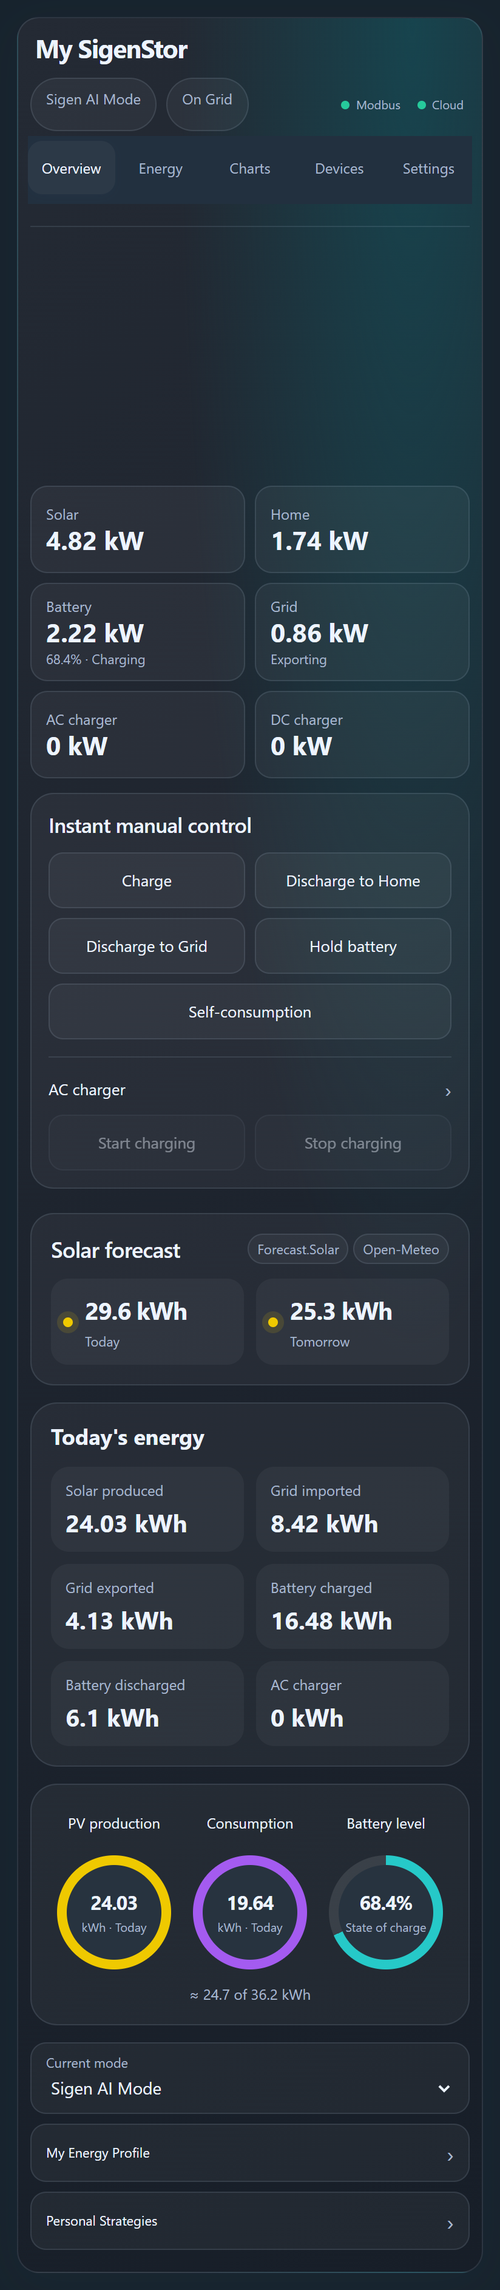
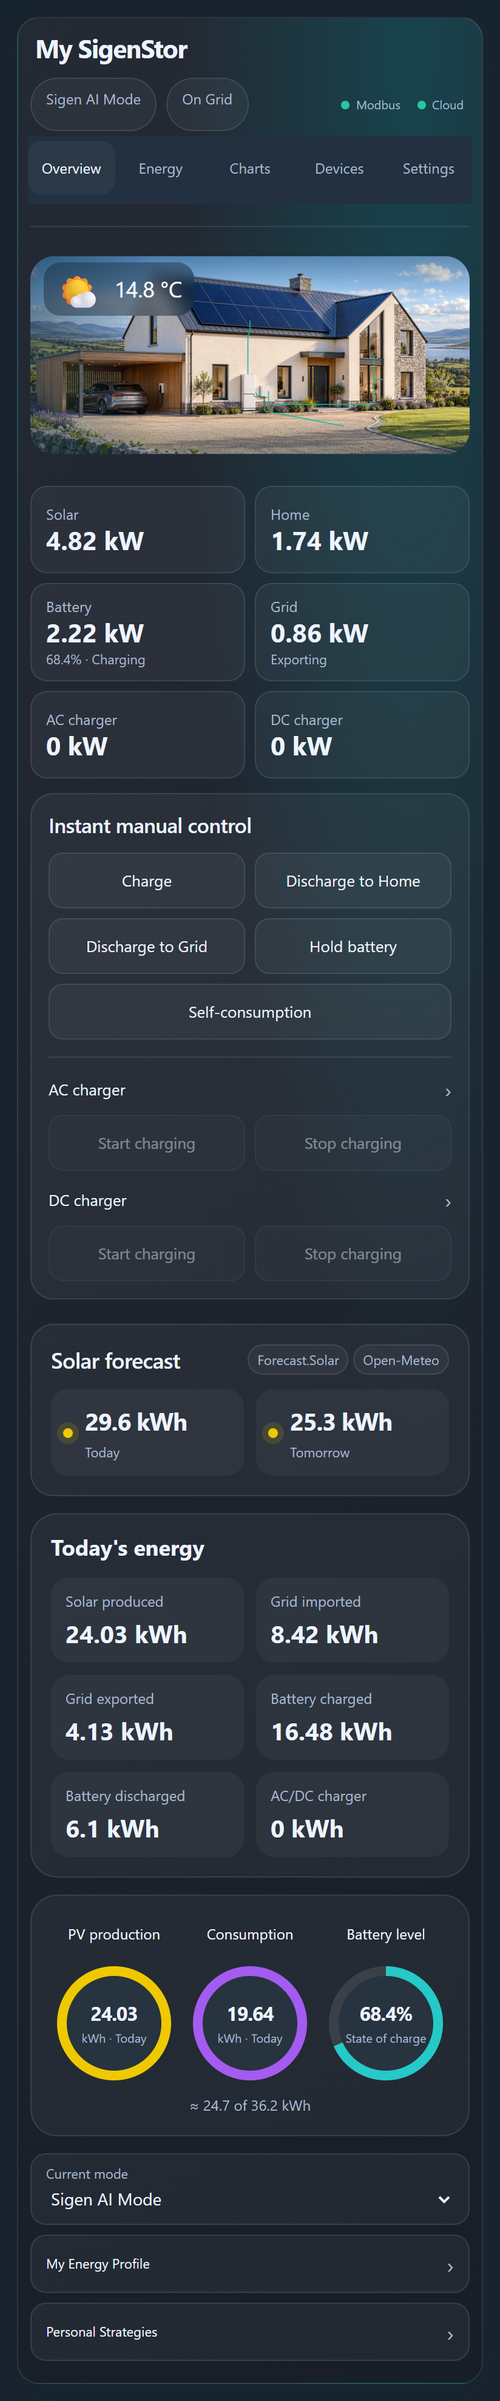
Correct charger visibility, frontend cache upgrades and landscape composition

diff --git a/custom_components/sigen_hybrid/frontend/sigen-hybrid-fit.js b/custom_components/sigen_hybrid/frontend/sigen-hybrid-fit.js
@@ -20,13 +20,16 @@ export function installHostFit(Card) {
       if (!box.width || !this.isConnected) return;
       const viewport = globalThis.visualViewport;
       const bottom = viewport ? viewport.height + viewport.offsetTop : globalThis.innerHeight;
-      const offered = parseFloat(getComputedStyle(this).getPropertyValue('--sigen-embedded-height'));
+      const offeredValue = getComputedStyle(this).getPropertyValue('--sigen-embedded-height').trim();
+      const offered = /^\d+(?:\.\d+)?px$/.test(offeredValue) ? parseFloat(offeredValue) : NaN;
       const padding = this.parentElement ? parseFloat(getComputedStyle(this.parentElement).paddingBottom) || 0 : 0;
       const available = Math.floor(Math.min(bottom - box.top - padding, offered > 0 ? offered : Infinity));
       if (available <= 0) return;
       const value = `${available}px`;
       if (this.style.getPropertyValue('--sigen-host-height') !== value) this.style.setProperty('--sigen-host-height', value);
-      this.toggleAttribute('data-sigen-fit', box.width >= 1100 && available >= 820);
+      const fit = (box.width >= 950 || box.width >= 740 && available <= box.width * .95) && available >= 600;
+      this.toggleAttribute('data-sigen-fit', fit);
+      this.toggleAttribute('data-sigen-compact-fit', fit && (box.width < 1100 || available < 820));
     };
     this._hostFitMeasure = measure;
     this._hostFitObserver = new ResizeObserver(measure);
@@ -60,10 +63,16 @@ ha-card.embedded-shell>main{min-width:0;min-height:0}
 :host([data-sigen-fit]) main:has(>.overview-preview-toolbar){grid-template-rows:auto auto minmax(0,1fr)}
 :host([data-sigen-fit]) .compact-overview.overview-aligned-controls{height:100%;min-height:0;grid-template-rows:minmax(min-content,1fr) 196px!important}
 :host([data-sigen-fit]) .compact-overview .overview-summary-stack{min-height:min-content;grid-template-rows:auto minmax(min-content,1fr) auto}
-.compact-overview .main-display-stage>.sigen-photo-scene{container-type:size;display:grid;place-items:center;isolation:isolate}
-.compact-overview .main-display-stage .sigen-photo-frame{container-type:size;flex:none;width:min(100cqw,calc(100cqh * 1490 / 673));height:min(100cqh,calc(100cqw * 673 / 1490));aspect-ratio:1490/673}
+.compact-overview .main-display-stage[data-display=photo]{container-type:size;display:grid;place-items:center}
+.compact-overview .main-display-stage>.sigen-photo-scene{container-type:size;display:block;position:relative!important;inset:auto!important;width:min(100cqw,calc(100cqh * 1490 / 673))!important;height:min(100cqh,calc(100cqw * 673 / 1490))!important;background:transparent!important;place-self:center;isolation:isolate}
+.compact-overview .main-display-stage .sigen-photo-frame{container-type:size;flex:none;width:100%;height:100%;aspect-ratio:1490/673}
+.compact-overview .sigen-photo-lower{top:auto!important;bottom:3%}
 .compact-overview .sigen-photo-plane>svg{overflow:hidden}
-.compact-overview .sigen-photo-scene::before{content:'';position:absolute;inset:-20px;z-index:-1;background-image:var(--sigen-photo-image);background-size:cover;background-position:center;filter:blur(16px);opacity:.45}
+.compact-overview .sigen-photo-label-leaders{left:50%;top:50%;width:max(100cqw,calc(100cqh * 2.490342));height:auto;aspect-ratio:1676/673;transform:translate(-50%,-50%)}
+.compact-overview .sigen-photo-chargers{position:absolute;inset:0;transform:none;display:block;max-width:none;min-height:0;pointer-events:none}
+.compact-overview .sigen-photo-chargers .sigen-photo-node{position:absolute;left:14.916468%;max-width:22%;top:40%}
+.compact-overview .sigen-photo-chargers .sigen-photo-node:has([data-detail=dc]){top:65%}
+.compact-overview .sigen-photo-scene::before{content:none!important}
 /* The artwork, cables and labels keep one shared aspect ratio. */
 @container sigen-card (min-width:651px) and (max-width:949px){
  .compact-overview .main-display-stage{aspect-ratio:2.05!important;max-height:none!important}
@@ -75,4 +84,50 @@ ha-card.embedded-shell>main{min-width:0;min-height:0}
 @container sigen-card (max-width:650px){
  .compact-overview .house-canvas{left:0!important;top:0!important;width:100%!important;height:100%!important}
 }
+/* A landscape tablet has less height after its shell header and sidebar.
+   Fit the complete overview using real touch-sized controls, not a tall
+   desktop grid with its bottom hidden outside the tablet. */
+:host([data-sigen-compact-fit]) ha-card>header{padding:8px 12px 4px!important}
+:host([data-sigen-compact-fit]) ha-card>header h1{font-size:20px!important}
+:host([data-sigen-compact-fit]) ha-card>main{padding:0 12px 6px!important}
+:host([data-sigen-compact-fit]) .primary-navigation{display:flex!important;align-items:center;flex-wrap:wrap;gap:4px 8px;margin-bottom:4px;padding-bottom:4px}
+:host([data-sigen-compact-fit]) .primary-navigation>nav{order:0;flex:1 1 auto;grid-column:auto;grid-row:auto}
+:host([data-sigen-compact-fit]) .energy-tab-strip>button{min-height:40px!important;padding:6px 10px!important;font-size:13px!important}
+:host([data-sigen-compact-fit]) .primary-navigation>.badges{order:1;grid-row:auto;gap:4px}
+:host([data-sigen-compact-fit]) .primary-navigation>.connection-strip{order:2;margin-left:auto;grid-row:auto}
+:host([data-sigen-compact-fit]) .badge,:host([data-sigen-compact-fit]) .connection-indicator{min-height:28px!important;padding:4px 7px!important;font-size:10px!important}
+:host([data-sigen-compact-fit]) .compact-overview.overview-grid.overview-aligned-controls{display:grid!important;grid-template-columns:minmax(0,1fr) minmax(280px,32%)!important;grid-template-rows:minmax(0,1fr) auto!important;gap:8px!important;height:100%!important;align-items:stretch}
+:host([data-sigen-compact-fit]) .compact-overview>.hero,:host([data-sigen-compact-fit]) .compact-overview>.overview-sidebar{display:grid!important;grid-template-rows:subgrid!important;grid-row:1/span 2!important;gap:10px!important;min-height:0}
+:host([data-sigen-compact-fit]) .compact-overview>.hero{grid-column:1!important}
+:host([data-sigen-compact-fit]) .compact-overview>.overview-sidebar{grid-column:2!important}
+:host([data-sigen-compact-fit]) .compact-overview .main-display-stage{width:100%!important;height:100%!important;max-height:none!important;aspect-ratio:auto!important;min-height:0}
+:host([data-sigen-compact-fit]) .compact-overview .overview-summary-stack{display:grid!important;grid-template-columns:1fr!important;grid-template-rows:auto minmax(0,1fr) auto!important;gap:6px!important;height:100%!important;min-height:0}
+:host([data-sigen-compact-fit]) .overview-side-module>.panel{padding:6px!important;min-height:0}
+:host([data-sigen-compact-fit]) .overview-side-module h2{font-size:15px!important;margin:0 0 5px!important;line-height:20px}
+:host([data-sigen-compact-fit]) .overview-side-module .section-title{margin-bottom:4px;gap:4px}
+:host([data-sigen-compact-fit]) .overview-forecast-panel .tile{min-height:44px!important;padding:4px 6px!important;gap:9px!important}
+:host([data-sigen-compact-fit]) .overview-forecast-panel .tile strong{font-size:18px!important;line-height:22px}
+:host([data-sigen-compact-fit]) .overview-forecast-panel .tile small{font-size:11px!important;line-height:14px}
+:host([data-sigen-compact-fit]) .forecast-source-badges .badge{font-size:9px!important;min-height:20px!important;padding:2px 4px!important}
+:host([data-sigen-compact-fit]) .overview-energy-metrics{gap:5px!important;grid-template-columns:repeat(3,minmax(0,1fr))!important;grid-template-rows:repeat(2,minmax(44px,1fr))!important}
+:host([data-sigen-compact-fit]) .overview-energy-metric{min-height:44px!important;padding:4px 6px!important}
+:host([data-sigen-compact-fit]) .overview-energy-metric small{font-size:11px!important;line-height:13px;margin-bottom:2px!important}
+:host([data-sigen-compact-fit]) .overview-energy-metric strong{font-size:17px!important;line-height:22px;white-space:nowrap}
+:host([data-sigen-compact-fit]) .overview-summary-ring{max-width:56px!important;padding:4px!important}
+:host([data-sigen-compact-fit]) .overview-circle-label{font-size:10px!important;line-height:13px;min-height:14px!important}
+:host([data-sigen-compact-fit]) .overview-circle-panel .overview-summary-ring strong{font-size:13px!important}
+:host([data-sigen-compact-fit]) .overview-ring-centre small{font-size:8px!important;margin-top:2px}
+:host([data-sigen-compact-fit]) .overview-circle-storage{font-size:10px!important;margin-top:4px!important;line-height:12px}
+:host([data-sigen-compact-fit]) .overview-primary-controls>.panel{padding:6px!important}
+:host([data-sigen-compact-fit]) .instant-manual-panel h2{font-size:15px;margin:0!important}
+:host([data-sigen-compact-fit]) .instant-manual-panel>.section-title{margin-bottom:6px!important}
+:host([data-sigen-compact-fit]) .battery-control-buttons{grid-template-columns:repeat(5,minmax(0,1fr))!important;gap:5px}
+:host([data-sigen-compact-fit]) .control-buttons button{min-height:44px!important;font-size:12px!important;line-height:15px;padding:5px!important}
+:host([data-sigen-compact-fit]) .overview-charger-controls{grid-template-columns:repeat(2,minmax(0,1fr))!important;margin-top:6px!important;padding-top:5px!important;gap:8px}
+:host([data-sigen-compact-fit]) .overview-charger-heading{font-size:12px!important;padding:0 0 4px!important;min-height:24px}
+:host([data-sigen-compact-fit]) .overview-device-links{display:grid!important;grid-template-columns:1fr!important;grid-template-rows:repeat(3,minmax(44px,1fr))!important;gap:5px!important;margin:0!important;min-height:0}
+:host([data-sigen-compact-fit]) .overview-device-links>*{grid-column:1!important;min-height:44px!important;font-size:12px!important;padding:6px 8px!important}
+:host([data-sigen-compact-fit]) .overview-mode-control select{min-height:24px!important;font-size:13px!important}
+:host([data-sigen-compact-fit]) .mobile-power-grid{display:none!important}
+:host([data-sigen-compact-fit]) .house-reading,:host([data-sigen-compact-fit]) .sigen-photo-node,:host([data-sigen-compact-fit]) .sigen-photo-leader{display:block!important}
 `;

diff --git a/custom_components/sigen_hybrid/frontend/sigen-hybrid-photo.js b/custom_components/sigen_hybrid/frontend/sigen-hybrid-photo.js
@@ -1,4 +1,4 @@
-import { renderSceneWeather, renderWeatherEffects } from './sigen-hybrid-house.js?v=0.2.3';
+import { renderSceneWeather, renderWeatherEffects } from './sigen-hybrid-house.js?v=0.2.4';
 /*
  * Copyright 2025-2026 Jean-Yves Avenard
  *
@@ -48,6 +48,8 @@ const FLOWS = Object.freeze({
   homeFlow: { path: 'M890 438 V466 Q890 474 898 474 H1178 Q1186 474 1186 466 V337', length: 462.1, gateway: 'start' },
   homeBranch: { path: 'M1186 404 H1210', length: 24, parent: 'homeFlow', fork: 395.1 },
   gridFlow: { path: 'M878 453 V486 Q878 492 886 494 L1100 535', length: 261.4, gateway: 'start' },
+  acFlow: { path: 'M878 453 V477 Q878 485 870 485 H601 Q589 485 589 473 V428', length: 371, gateway: 'start' },
+  dcFlow: { path: 'M878 453 H856 Q848 453 848 445 H820', length: 66, gateway: 'start' },
 });
 // Distances follow the remapped local paths. A shared cycle carries the pulse
 // through the inverter/gateway to HOME without traversing the open sky.
@@ -123,6 +125,8 @@ export function photoSceneModel(ctx = {}) {
       homeFlow: flow(home, homeActive), homeBranch: flow(home, homeActive),
       // This cable's path points from gateway to grid.
       gridFlow: flow(grid === null ? null : -grid, gridActive, grid !== null && grid > 0),
+      acFlow: flow(ac, hasAc && activeReading(ctx, 'ac_power', ac)),
+      dcFlow: flow(dc, hasDc && activeReading(ctx, 'dc_power', dc)),
     },
     duration: PULSE.cycle / (PULSE.speed[0] + PULSE.speed[1] * Math.sqrt(homeActive ? Math.abs(home) : 0)),
   };
@@ -157,7 +161,7 @@ export function renderPhotoScene(ctx = {}) {
   const coverTransform = `translate(${number(COVER.x, 6)} ${number(COVER.y, 6)}) scale(${number(COVER.scale, 6)})`;
   const lower = `left:${number(READINGS.lower[0] / SCENE.width * 100, 5)}%;width:${number((SCENE.width - READINGS.lower[0]) / SCENE.width * 100, 5)}%;bottom:${number((SCENE.height - READINGS.lower[2]) / SCENE.height * 100, 5)}%;grid-template-columns:${number((READINGS.lower[1] - READINGS.lower[0]) / (SCENE.width - READINGS.lower[0]) * 100, 5)}% auto`;
   const soc = values.soc === null ? '—' : `${number(values.soc, 1)}%`;
-  return `<section class="sigen-photo-scene${model.night ? ' is-night' : ''}" aria-label="Home energy flow" style="--sigen-photo-image:url('${escape(image)}')"><div class="sigen-photo-frame">${renderWeatherEffects(ctx)}<div class="sigen-photo-weather">${renderSceneWeather(ctx)}</div><div class="sigen-photo-plane"><svg viewBox="0 0 ${SCENE.width} ${SCENE.height}" preserveAspectRatio="xMidYMid meet" role="img" aria-label="Energy flow between solar panels, SigenStor, home and grid"><defs><linearGradient id="${gradient('top')}" x1="0" y1="0" x2="0" y2="1"><stop offset="0" class="sigen-photo-fade" stop-opacity=".6"/><stop offset=".5" class="sigen-photo-fade" stop-opacity=".35"/><stop offset="1" class="sigen-photo-fade" stop-opacity="0"/></linearGradient><linearGradient id="${gradient('bottom')}" x1="0" y1="0" x2="0" y2="1"><stop offset="0" class="sigen-photo-fade" stop-opacity="0"/><stop offset=".45" class="sigen-photo-fade" stop-opacity=".4"/><stop offset="1" class="sigen-photo-fade" stop-opacity=".65"/></linearGradient><linearGradient id="${gradient('left')}" x1="0" y1="0" x2="1" y2="0"><stop offset="0" class="sigen-photo-fade" style="stop-opacity:var(--photo-fade-left)"/><stop offset="1" class="sigen-photo-fade" stop-opacity="0"/></linearGradient></defs><g class="sigen-photo-cover-image" transform="${coverTransform}"><image class="sigen-photo-art" href="${escape(image)}" x="0" y="${PHOTO.top}" width="${PHOTO.width}" height="${PHOTO.height}" preserveAspectRatio="xMidYMid meet"/></g><rect x="0" y="-${PHOTO.bleed}" width="${SCENE.width}" height="${FADE.topEnd + PHOTO.bleed}" class="sigen-photo-fade-rect" fill="url(#${gradient('top')})"/><rect x="0" y="${FADE.bottomStart}" width="${SCENE.width}" height="${SCENE.height - FADE.bottomStart + PHOTO.bleed}" class="sigen-photo-fade-rect" fill="url(#${gradient('bottom')})"/><rect x="0" y="-${PHOTO.bleed}" width="520" height="${SCENE.height + 2 * PHOTO.bleed}" fill="url(#${gradient('left')})"/><g class="sigen-photo-cover-flows" transform="${coverTransform}">${Object.keys(FLOWS).map(id => flowMarkup(id, model)).join('')}</g></svg></div><svg class="sigen-photo-label-leaders" viewBox="0 0 ${SCENE.width} ${SCENE.height}" preserveAspectRatio="none" aria-hidden="true">${LEADERS.map(path => `<path class="sigen-photo-leader" d="${path}" fill="none" stroke="#d5e1e5" stroke-width="1" vector-effect="non-scaling-stroke"/>`).join('')}</svg><div class="sigen-photo-labels">${label('solar', 'SOLAR', power(values.solar), '', 'sigen-photo-lead', place(READINGS.solar))}${label('load', 'HOME', power(values.home), '', 'sigen-photo-lead', place(READINGS.home))}<div class="sigen-photo-lower" style="${lower}">${label('battery', `SigenStor · ${soc}`, power(values.battery), model.batteryStatus)}${label('grid', 'GRID', power(values.grid), model.gridStatus)}</div>${model.hasAc || model.hasDc ? `<div class="sigen-photo-chargers">${model.hasAc ? label('ac', 'AC CHARGER', power(values.ac), model.acState) : ''}${model.hasDc ? label('dc', 'DC CHARGER', power(values.dc), status(values.dc, 'Charging', 'Discharging')) : ''}</div>` : ''}</div></div></section>`;
+  return `<section class="sigen-photo-scene${model.night ? ' is-night' : ''}" aria-label="Home energy flow"><div class="sigen-photo-frame">${renderWeatherEffects(ctx)}<div class="sigen-photo-weather">${renderSceneWeather(ctx)}</div><div class="sigen-photo-plane"><svg viewBox="0 0 ${SCENE.width} ${SCENE.height}" preserveAspectRatio="xMidYMid meet" role="img" aria-label="Energy flow between solar panels, SigenStor, home and grid"><defs><linearGradient id="${gradient('top')}" x1="0" y1="0" x2="0" y2="1"><stop offset="0" class="sigen-photo-fade" stop-opacity=".6"/><stop offset=".5" class="sigen-photo-fade" stop-opacity=".35"/><stop offset="1" class="sigen-photo-fade" stop-opacity="0"/></linearGradient><linearGradient id="${gradient('bottom')}" x1="0" y1="0" x2="0" y2="1"><stop offset="0" class="sigen-photo-fade" stop-opacity="0"/><stop offset=".45" class="sigen-photo-fade" stop-opacity=".4"/><stop offset="1" class="sigen-photo-fade" stop-opacity=".65"/></linearGradient><linearGradient id="${gradient('left')}" x1="0" y1="0" x2="1" y2="0"><stop offset="0" class="sigen-photo-fade" style="stop-opacity:var(--photo-fade-left)"/><stop offset="1" class="sigen-photo-fade" stop-opacity="0"/></linearGradient></defs><g class="sigen-photo-cover-image" transform="${coverTransform}"><image class="sigen-photo-art" href="${escape(image)}" x="0" y="${PHOTO.top}" width="${PHOTO.width}" height="${PHOTO.height}" preserveAspectRatio="xMidYMid meet"/></g><rect x="0" y="-${PHOTO.bleed}" width="${SCENE.width}" height="${FADE.topEnd + PHOTO.bleed}" class="sigen-photo-fade-rect" fill="url(#${gradient('top')})"/><rect x="0" y="${FADE.bottomStart}" width="${SCENE.width}" height="${SCENE.height - FADE.bottomStart + PHOTO.bleed}" class="sigen-photo-fade-rect" fill="url(#${gradient('bottom')})"/><rect x="0" y="-${PHOTO.bleed}" width="520" height="${SCENE.height + 2 * PHOTO.bleed}" fill="url(#${gradient('left')})"/><g class="sigen-photo-cover-flows" transform="${coverTransform}">${Object.keys(FLOWS).filter(id => id !== 'acFlow' && id !== 'dcFlow' || id === 'acFlow' && model.hasAc || id === 'dcFlow' && model.hasDc).map(id => flowMarkup(id, model)).join('')}</g></svg></div><svg class="sigen-photo-label-leaders" viewBox="0 0 ${SCENE.width} ${SCENE.height}" preserveAspectRatio="none" aria-hidden="true">${[...LEADERS,...(model.hasAc ? ['M315 269 V450 H538'] : []),...(model.hasDc ? ['M315 437 V470 H816'] : [])].map(path => `<path class="sigen-photo-leader" d="${path}" fill="none" stroke="#d5e1e5" stroke-width="1" vector-effect="non-scaling-stroke"/>`).join('')}</svg><div class="sigen-photo-labels">${label('solar', 'SOLAR', power(values.solar), '', 'sigen-photo-lead', place(READINGS.solar))}${label('load', 'HOME', power(values.home), '', 'sigen-photo-lead', place(READINGS.home))}<div class="sigen-photo-lower" style="${lower}">${label('battery', `SigenStor · ${soc}`, power(values.battery), model.batteryStatus)}${label('grid', 'GRID', power(values.grid), model.gridStatus)}</div>${model.hasAc || model.hasDc ? `<div class="sigen-photo-chargers">${model.hasAc ? label('ac', 'AC CHARGER', power(values.ac), model.acState) : ''}${model.hasDc ? label('dc', 'DC CHARGER', power(values.dc), status(values.dc, 'Charging', 'Discharging')) : ''}</div>` : ''}</div></div></section>`;
 }
 
 export const PHOTO_STYLE = `

diff --git a/tools/gallery.html b/tools/gallery.html
@@ -8,8 +8,10 @@ const params=new URLSearchParams(location.search),card=document.querySelector('s
 if(params.has('shell')){const header=document.createElement('header');header.textContent='Tablet dashboard · Solar';header.style.cssText='height:92px;display:flex;align-items:center;box-sizing:border-box;padding:16px;font-size:20px';document.body.insertBefore(header,card);}
 const measurements={solar_power:[4.82,'kW'],home_power:[1.74,'kW'],grid_power:[-.86,'kW'],battery_power:[2.22,'kW'],battery_soc:[68.4,'%'],battery_capacity:[36.16,'kWh'],solar_today:[24.03,'kWh'],home_today:[19.64,'kWh'],grid_import_today:[8.42,'kWh'],grid_export_today:[4.13,'kWh'],battery_charge_today:[16.48,'kWh'],battery_discharge_today:[6.1,'kWh'],forecast_today:[29.6,'kWh'],forecast_tomorrow:[25.3,'kWh'],ac_power:[0,'kW'],ac_today:[0,'kWh'],dc_power:[0,'kW'],dc_today:[0,'kWh']};
 for(const [key,[value,unit]] of Object.entries(measurements)){const id='sensor.example_'+key;entities[key]=id;states[id]={entity_id:id,state:String(value),last_updated:new Date(now).toISOString(),attributes:{unit_of_measurement:unit}};}
-for(const [key,value,attributes] of [['control_status','ready',{config_entry_id:'example',control_api_version:1,live_writes_locked:true,connections:{modbus:{enabled:true,status:'connected'},cloud:{enabled:true,status:'connected'}},capabilities:{manual_control:{supported:true,available:false}},native_settings:{mode:{operationMode:0},gateway:{onOffGridStatus:0}}}],['cloud_mode','Sigen AI Mode',{}],['cloud_status','connected',{device_inventory:[{id:'solar',type:'solar',installed:true},{id:'storage',type:'inverter',installed:true},{id:'ac',type:'ac',installed:true},{id:'dc',type:'dc',installed:false}]}],['modbus_status','connected',{}],['forecast_status','ready',{available:true,provider:'average',sources:[{provider:'forecast_solar',name:'Forecast.Solar',available:true},{provider:'open_meteo_solar_forecast',name:'Open-Meteo',available:true}]}]]){const id='sensor.example_'+key;entities[key]=id;states[id]={entity_id:id,state:value,attributes,last_updated:new Date(now).toISOString()};}
+for(const [key,value,attributes] of [['control_status','ready',{config_entry_id:'example',control_api_version:1,live_writes_locked:true,connections:{modbus:{enabled:true,status:'connected'},cloud:{enabled:true,status:'connected'}},capabilities:{manual_control:{supported:true,available:false}},native_settings:{mode:{operationMode:0},gateway:{onOffGridStatus:0}}}],['cloud_mode','Sigen AI Mode',{}],['cloud_status','connected',{device_inventory:[{id:'solar',type:'solar',installed:true},{id:'storage',type:'inverter',installed:true},{id:'ac',type:'ac',installed:true},{id:'dc',type:'dc',installed:true}]}],['modbus_status','connected',{}],['forecast_status','ready',{available:true,provider:'average',sources:[{provider:'forecast_solar',name:'Forecast.Solar',available:true},{provider:'open_meteo_solar_forecast',name:'Open-Meteo',available:true}]}]]){const id='sensor.example_'+key;entities[key]=id;states[id]={entity_id:id,state:value,attributes,last_updated:new Date(now).toISOString()};}
 entities.grid_status='sensor.example_grid_status';states[entities.grid_status]={state:'on_grid',attributes:{}};
+if(params.has('inventory_only'))for(const key of ['ac_power','dc_power']){delete states[entities[key]];delete entities[key];}
+if(params.has('sidebar')){document.body.style.paddingLeft='242px';const aside=document.createElement('aside');aside.textContent='Tablet menu';aside.style.cssText='position:fixed;left:14px;top:14px;bottom:14px;width:214px;border-radius:20px;background:#b9e6ec;color:#173849;box-sizing:border-box;padding:20px';document.body.append(aside);}
 states['weather.example']={state:'partlycloudy',attributes:{temperature:14.8,temperature_unit:'°C'}};states['sun.sun']={state:'above_horizon',attributes:{}};
 card.setConfig({type:'custom:sigen-hybrid-card',title:'My SigenStor',view:params.get('view')??'overview',main_display:params.get('display')??'photo',...(params.has('shell')?{embedded:true,embed_mode:'shell'}:{}),appearance:'day',config_entry:'example',entities,weather_entity:'weather.example',animations:false,devices:states[entities.cloud_status].attributes.device_inventory});
 card.hass={states,themes:{darkMode:true},config:{time_zone:'Europe/Dublin',currency:'EUR',unit_system:{temperature:'°C'}},locale:{language:'en',number_format:'language'},user:{is_admin:true},callWS:async()=>{throw Error('Offline documentation example');}};

diff --git a/custom_components/sigen_hybrid/frontend/sigen-hybrid-card.js b/custom_components/sigen_hybrid/frontend/sigen-hybrid-card.js
@@ -20,15 +20,15 @@
  * OUT OF OR IN CONNECTION WITH THE SOFTWARE OR THE USE OR OTHER DEALINGS IN THE
  * SOFTWARE.
  */
-import { installNavigation, CARD_PRESETS, CARD_CHART_CHOICES } from './sigen-hybrid-navigation.js?v=0.2.3';
-import { installHostFit } from './sigen-hybrid-fit.js?v=0.2.3';
-import { WIDGET_ROUTES } from './sigen-hybrid-widgets.js?v=0.2.3';
-import { renderPhotoScene, PHOTO_STYLE } from './sigen-hybrid-photo.js?v=0.2.3';
-import { renderTodayEnergy, renderBatteryLevel, renderChargerControls, renderMobilePower, OVERVIEW_STYLE } from './sigen-hybrid-overview.js?v=0.2.3';
-import { energySankey as buildEnergySankey } from './sigen-hybrid-sankey.js?v=0.2.3';
-import { renderHouseScene, HOUSE_STYLE } from './sigen-hybrid-house.js?v=0.2.3';
-import { renderDeviceOverview, DEVICE_STYLE } from './sigen-hybrid-devices.js?v=0.2.3';
-import { gridConnectionStatus, connectionIndicators, selectReadingState } from './sigen-hybrid-energy.js?v=0.2.3';
+import { installNavigation, CARD_PRESETS, CARD_CHART_CHOICES } from './sigen-hybrid-navigation.js?v=0.2.4';
+import { installHostFit } from './sigen-hybrid-fit.js?v=0.2.4';
+import { WIDGET_ROUTES } from './sigen-hybrid-widgets.js?v=0.2.4';
+import { renderPhotoScene, PHOTO_STYLE } from './sigen-hybrid-photo.js?v=0.2.4';
+import { renderTodayEnergy, renderBatteryLevel, renderChargerControls, renderMobilePower, OVERVIEW_STYLE } from './sigen-hybrid-overview.js?v=0.2.4';
+import { energySankey as buildEnergySankey } from './sigen-hybrid-sankey.js?v=0.2.4';
+import { renderHouseScene, HOUSE_STYLE } from './sigen-hybrid-house.js?v=0.2.4';
+import { renderDeviceOverview, DEVICE_STYLE } from './sigen-hybrid-devices.js?v=0.2.4';
+import { gridConnectionStatus, connectionIndicators, selectReadingState } from './sigen-hybrid-energy.js?v=0.2.4';
 export const MAIN_DISPLAYS = Object.freeze({ house: 'House', flow: 'Flow', photo: 'Photo house' });
 const COLORS = { solar: '#efc900', battery: '#26c9c8', grid: '#6694ff', home: '#a45bf0', ac: '#b46767', dc: '#d29420' };
 const LABELS = { solar: 'Solar', battery: 'Battery', grid: 'Grid', home: 'Home', ac: 'AC charger', dc: 'DC charger' };
@@ -227,7 +227,12 @@ export class SigenHybridCard extends HTMLElement {
   }
   _now() { const snapshot = Date.parse(this._config?.snapshot_at ?? ''); return Number.isFinite(snapshot) ? snapshot : Date.now(); }
   _value(key, kind = 'power') { return measurement(this._state(key), kind); }
-  _has(key) { return Boolean(this._entities[key]); }
+  _has(key) {
+    if (Object.hasOwn(this._config?.entities ?? {}, key) && this._config.entities[key] === null) return false;
+    if (this._entities[key]) return true;
+    const type = {ac_power:'ac',ac_state:'ac',dc_power:'dc'}[key];
+    return Boolean(type && this._deviceInventory().some(device => device.type === type && device.installed === true));
+  }
   _readOnly() { const control=this._state('control_status')?.attributes;return this._config.cloud_paused === true || !this._config.config_entry || control?.live_writes_locked !== false || control?.control_api_version===1&&control?.capabilities?.manual_control?.available!==true; }
   _moduleIds() { return (this._config.optimizers ?? []).flatMap(m => ['power', 'energy', 'voltage', 'current'].map(k => m[k]).filter(Boolean)); }
   _deviceIds() { return (this._config.devices ?? []).flatMap(device => Object.values(device.entities ?? {}).filter(Boolean)); }

diff --git a/custom_components/sigen_hybrid/frontend/sigen-hybrid-navigation.js b/custom_components/sigen_hybrid/frontend/sigen-hybrid-navigation.js
@@ -1,11 +1,11 @@
 /* SPDX-License-Identifier: GPL-3.0-only */
-import { renderDeviceDetail, solarStringSeries, DETAIL_STYLE } from './sigen-hybrid-details.js?v=0.2.3';
-import { renderSettingsDetail, collectSettings, SETTINGS_STYLE, SETTINGS_ROUTES, CHART_CHOICES, DEFAULT_CHART_SELECTION, DISPLAY_MODULES, DISPLAY_PRESETS, HOMEPAGE_APPEARANCES, HOMEPAGE_BACKGROUNDS, homepageBackground, displayDefaults, encodeChargerScheduleId, decodeChargerScheduleId, bindTariffEditor, bindStrategyEditor, OPERATING_MODES, observedOperatingMode, renderOverviewModeControl, strategyExportEligibility } from './sigen-hybrid-settings.js?v=0.2.3';
-import { periodRange, dateAt, shiftDate, toCSV, preserveChartScroll } from './sigen-hybrid-charts.js?v=0.2.3';
-import { renderSummaryWidget, renderSummaryDetail, WIDGET_ROUTES, WIDGET_STYLE } from './sigen-hybrid-widgets.js?v=0.2.3';
-import { ENERGY_ROUTES, renderEnergyProfile, ENERGY_STYLE, ownerSettingTarget, renderOwnerSetting, collectOwnerSetting, bindOwnerSettingForm } from './sigen-hybrid-energy.js?v=0.2.3';
-import { renderChargingEnergy, renderTodayEnergy, renderBatteryLevel, renderMobilePower, renderChargerControls } from './sigen-hybrid-overview.js?v=0.2.3';
-import { modeChoices, selectedMode, nativeModeChoices } from './sigen-hybrid-settings.js?v=0.2.3';
+import { renderDeviceDetail, solarStringSeries, DETAIL_STYLE } from './sigen-hybrid-details.js?v=0.2.4';
+import { renderSettingsDetail, collectSettings, SETTINGS_STYLE, SETTINGS_ROUTES, CHART_CHOICES, DEFAULT_CHART_SELECTION, DISPLAY_MODULES, DISPLAY_PRESETS, HOMEPAGE_APPEARANCES, HOMEPAGE_BACKGROUNDS, homepageBackground, displayDefaults, encodeChargerScheduleId, decodeChargerScheduleId, bindTariffEditor, bindStrategyEditor, OPERATING_MODES, observedOperatingMode, renderOverviewModeControl, strategyExportEligibility } from './sigen-hybrid-settings.js?v=0.2.4';
+import { periodRange, dateAt, shiftDate, toCSV, preserveChartScroll } from './sigen-hybrid-charts.js?v=0.2.4';
+import { renderSummaryWidget, renderSummaryDetail, WIDGET_ROUTES, WIDGET_STYLE } from './sigen-hybrid-widgets.js?v=0.2.4';
+import { ENERGY_ROUTES, renderEnergyProfile, ENERGY_STYLE, ownerSettingTarget, renderOwnerSetting, collectOwnerSetting, bindOwnerSettingForm } from './sigen-hybrid-energy.js?v=0.2.4';
+import { renderChargingEnergy, renderTodayEnergy, renderBatteryLevel, renderMobilePower, renderChargerControls } from './sigen-hybrid-overview.js?v=0.2.4';
+import { modeChoices, selectedMode, nativeModeChoices } from './sigen-hybrid-settings.js?v=0.2.4';
 
 const escape = value => String(value ?? '').replace(/[&<>"']/g, c => ({ '&':'&amp;', '<':'&lt;', '>':'&gt;', '"':'&quot;', "'":'&#39;' })[c]);
 

diff --git a/custom_components/sigen_hybrid/frontend/sigen-hybrid-details.js b/custom_components/sigen_hybrid/frontend/sigen-hybrid-details.js
@@ -1,8 +1,8 @@
 /* SPDX-License-Identifier: GPL-3.0-only
  * Pure device-detail views. Navigation, charts and data access belong to the host.
  */
-import { renderChargerButtons } from './sigen-hybrid-overview.js?v=0.2.3';
-import { renderDeviceGraphic } from './sigen-hybrid-devices.js?v=0.2.3';
+import { renderChargerButtons } from './sigen-hybrid-overview.js?v=0.2.4';
+import { renderDeviceGraphic } from './sigen-hybrid-devices.js?v=0.2.4';
 export const escapeDetailHTML = value => String(value ?? '').replace(/[&<>"']/g, character => ({ '&': '&amp;', '<': '&lt;', '>': '&gt;', '"': '&quot;', "'": '&#39;' })[character]);
 const esc = escapeDetailHTML;
 const absent = value => value === null || value === undefined || typeof value === 'string' && (!value.trim() || ['unknown', 'unavailable', 'none'].includes(value.toLowerCase()));

diff --git a/tests/test_frontend_assets.py b/tests/test_frontend_assets.py
@@ -1,8 +1,11 @@
 """All imported dashboard modules must be served when the integration loads."""
 import ast
+import json
 import re
 from pathlib import Path
 from types import SimpleNamespace
+
+import pytest
 
 
 async def test_frontend_serves_only_the_complete_known_asset_set():
@@ -10,6 +13,7 @@ async def test_frontend_serves_only_the_complete_known_asset_set():
     tree = ast.parse(source.read_text())
     namespace = {
         "Path": Path, "__file__": str(source.resolve()), "DOMAIN": "sigen_hybrid", "LOVELACE_DATA": "lovelace",
+        "VERSION": "0.2.4",
         "StaticPathConfig": lambda url, path, **kwargs: (url, path, kwargs),
     }
     exec(compile(ast.Module(body=[node for node in tree.body if isinstance(node, ast.AsyncFunctionDef)], type_ignores=[]), str(source), "exec"), namespace)
@@ -37,3 +41,40 @@ async def test_frontend_serves_only_the_complete_known_asset_set():
             module = specifier.split("?", 1)[0]
             assert module == f"./{Path(module).name}"
             assert Path(module).name in expected
+
+
+@pytest.mark.parametrize("existing_url", [None, "/sigen_hybrid/sigen-hybrid-card.js", "/sigen_hybrid/sigen-hybrid-card.js?v=0.2.3"])
+async def test_resource_registration_versions_new_and_existing_resources(existing_url):
+    source = Path("custom_components/sigen_hybrid/frontend.py")
+    namespace = {"Path": Path, "__file__": str(source.resolve()), "DOMAIN": "sigen_hybrid", "VERSION": "0.2.4", "LOVELACE_DATA": "lovelace", "StaticPathConfig": lambda *a, **kw: None}
+    tree = ast.parse(source.read_text())
+    exec(compile(ast.Module(body=[n for n in tree.body if isinstance(n, ast.AsyncFunctionDef)], type_ignores=[]), str(source), "exec"), namespace)
+    other = {"id": "other", "url": "/local/another-card.js", "type": "module"}
+    rows = [other.copy()] + ([{"id": "tc", "url": existing_url, "type": "module"}] if existing_url else [])
+    changes = []
+
+    async def noop(*args):
+        pass
+
+    async def create(data):
+        rows.append({"id": "tc", **data})
+        changes.append("create")
+
+    async def update(identity, data):
+        assert identity == "tc"
+        rows[1].update(data)
+        changes.append("update")
+
+    resources = SimpleNamespace(async_get_info=noop, async_items=lambda: rows, async_create_item=create, async_update_item=update)
+    hass = SimpleNamespace(data={"lovelace": SimpleNamespace(resource_mode="storage", resources=resources)}, http=SimpleNamespace(async_register_static_paths=noop))
+    await namespace["async_register_frontend"](hass)
+    assert rows[0] == other
+    assert rows[1]["id"] == "tc" and rows[1]["url"] == "/sigen_hybrid/sigen-hybrid-card.js?v=0.2.4"
+    await namespace["async_register_frontend"](hass)
+    assert len(changes) == 1
+
+
+def test_frontend_resource_version_matches_package():
+    manifest = json.loads(Path("custom_components/sigen_hybrid/manifest.json").read_text())
+    from custom_components.sigen_hybrid.const import VERSION
+    assert VERSION == manifest["version"]

diff --git a/custom_components/sigen_hybrid/frontend.py b/custom_components/sigen_hybrid/frontend.py
@@ -5,7 +5,7 @@ from pathlib import Path
 from homeassistant.components.http import StaticPathConfig
 from homeassistant.components.lovelace.const import LOVELACE_DATA
 
-from .const import DOMAIN
+from .const import DOMAIN, VERSION
 
 
 async def async_register_frontend(hass):
@@ -39,5 +39,12 @@ async def async_register_frontend(hass):
     if dashboard is not None and dashboard.resource_mode == "storage":
         resources = dashboard.resources
         await resources.async_get_info()
-        if not any("sigen-hybrid-card.js" in item.get("url", "") for item in resources.async_items()):
-            await resources.async_create_item({"url": f"/{DOMAIN}/sigen-hybrid-card.js", "res_type": "module"})
+        path = f"/{DOMAIN}/sigen-hybrid-card.js"
+        url = f"{path}?v={VERSION}"
+        existing = [item for item in resources.async_items() if item.get("url", "").split("?", 1)[0] == path]
+        if not existing:
+            await resources.async_create_item({"url": url, "res_type": "module"})
+        else:
+            for item in existing:
+                if item["url"] != url:
+                    await resources.async_update_item(item["id"], {"url": url, "res_type": "module"})

diff --git a/custom_components/sigen_hybrid/const.py b/custom_components/sigen_hybrid/const.py
@@ -1,6 +1,6 @@
 """Integration constants."""
 
 DOMAIN = "sigen_hybrid"
-VERSION = "0.1.0"
+VERSION = "0.2.4"
 DEFAULT_POLL_SECONDS = 45
 LIVE_WRITES_READY = False

diff --git a/docs/dashboard-embedding.md b/docs/dashboard-embedding.md
@@ -26,7 +26,7 @@ The installer never assumes an arbitrary third-party shell can display a card. A
 
 The main navigation is Overview, Energy, Charts, Devices and Settings. Settings groups are Energy, Connections & data, Appearance, System & safety, Service and About. Existing overview shortcuts open the same editors. Scene, day/night and layout choices live in Appearance; test preview badges require `show_preview_controls: true`.
 
-Phone views use readable power tiles under the scene instead of overlaying small labels. All three scene choices retain the same controls and detail destinations. Larger layouts keep the scene and summary side by side when space allows.
+Phone views use readable power tiles under the scene instead of overlaying small labels. All three scene choices retain the same controls and detail destinations. Larger layouts keep the scene and summary side by side when space allows. Compact landscape layouts reflow daily totals into three columns so the picture, summary and all control groups fit beneath the host header. Portrait and phone layouts preserve readable vertical scrolling.
 
 Connection setup renders the integration's native HA options flow inside TC. Credentials stay transient in the form and are submitted only to HA's options API. Cancel closes that flow. Account time/date/number/week-start preferences use HA's native per-user frontend storage; security and account management remain in HA's account page. A reload may be needed for HA itself to apply locale preferences.
 
@@ -73,8 +73,14 @@ Panels, charts and dialogs follow Home Assistant light/dark mode. House lighting
 
 ## Embedded sizing
 
-The full dashboard measures its own width and available height below host headers. A custom shell can offer `--sigen-embedded-height` on the card; TC caps that to the visible viewport and recalculates on resize. Photo House keeps one aspect ratio for its artwork, cables and labels, with a softened matching background filling unused space. Narrower tablets use separate readable, clickable power tiles; charger readings appear only when configured.
+The full dashboard measures its own width and available height below host headers. A custom shell can offer `--sigen-embedded-height` on the card; TC caps that to the visible viewport and recalculates on resize. Photo House keeps one aspect ratio for its artwork, cables and labels, without blurred padding. Narrower tablets use separate readable, clickable power tiles; charger readings appear only when configured.
 
 Large enough containers retain the complete two-column overview. Short or narrow containers scroll inside the bounded drop-in rather than clipping controls or reducing text and touch targets beyond readability. Other tabs retain their content scrolling. An arbitrary third-party shell must itself offer a bounded area or allow scrolling; TC cannot override an external shell that clips or hides its entire child.
 
 ![Embedded tablet below a dashboard header](images/embedded-tablet.png)
+
+## Frontend updates and installed chargers
+
+From 0.2.4, startup registers the frontend at a versioned URL and upgrades an existing unversioned or older TC resource in place. After updating in HACS, restart HA and reload the tablet or browser web view once so it observes the changed resource configuration. A backend update alone cannot replace modules already running in an open web view. Other Lovelace resources are not changed.
+
+Photo/house/flow and narrow-screen power tiles use the discovered installed-device inventory as well as explicitly mapped sensors. An installed AC/DC charger remains visible when instantaneous power is unavailable; its label opens the same device details and the cable remains drawn without a false flow animation. A missing power reading is shown as a dash, never invented as zero. Explicitly disabled entity mappings remain excluded.

diff --git a/CHANGELOG.md b/CHANGELOG.md
@@ -1,5 +1,13 @@
 # Changelog
 
+## 0.2.4
+
+- Version and upgrade the registered frontend resource automatically, retaining its resource ID and leaving other cards untouched. This prevents an updated backend from retaining the previous JavaScript module graph on tablets and browsers.
+- Keep installed AC/DC chargers visible from the actual inventory even when a power sensor is not bound. Missing readings remain unknown; explicit entity exclusions are respected. Add the previously missing conditional charger connection paths and detail links to Photo House.
+- Remove blurred image padding. Preserve the photo proportions and align its leaders, installed-device labels and flow paths within the responsive scene.
+- Fit the complete landscape overview below host headers and beside dashboard sidebars. Reflow daily totals into three columns on compact landscape layouts and retain reachable controls in the same composition. Phones and portrait layouts keep their readable scrolling layout.
+- Test both chargers without power bindings, resource upgrades, and whole-layout visibility across 38 browser layout cases plus six resize checks.
+
 ## 0.2.3
 
 - Fit embedded dashboards to their host space below headers. Keep Photo House artwork, flow lines and labels on one aspect ratio; preserve charger details when resizing and use readable tiles on narrower tablets. Scroll within the drop-in where the available space cannot contain every control.

diff --git a/docs/troubleshooting.md b/docs/troubleshooting.md
@@ -27,3 +27,11 @@ Local-only installations need a continuous midnight crossing or an explicitly ve
 ## Tablet headers or house labels are cut off
 
 Update the integration and reload the dashboard to obtain the 0.2.3 frontend imports. The full drop-in measures the host area, and Photo House preserves the artwork/label ratio. On smaller spaces, scroll inside the drop-in to reach all controls. The supported custom shell should pass its content height using `--sigen-embedded-height`; an old shell that does not render embedded cards needs its own adapter update.
+
+## Backend updated but the old interface remains
+
+Earlier versions retained the unversioned registered TC resource, allowing an open tablet or browser to keep the previous module graph. Version 0.2.4 upgrades its own resource URL automatically. Restart HA after HACS updates, then fully reload the web view. In HA dashboard Resources, the TC URL should end in `?v=0.2.4`. Do not add a second copy of the same module.
+
+## Installed chargers missing from Photo House
+
+Version 0.2.3 hid charger labels when no instantaneous power entity was discovered, even when the Cloud inventory listed the device. Version 0.2.4 separates installed status from telemetry availability. AC/DC labels and cables use actual inventory; missing power stays unknown. Check the discovered inventory and any explicit null/exclusion mapping if a charger remains absent.
